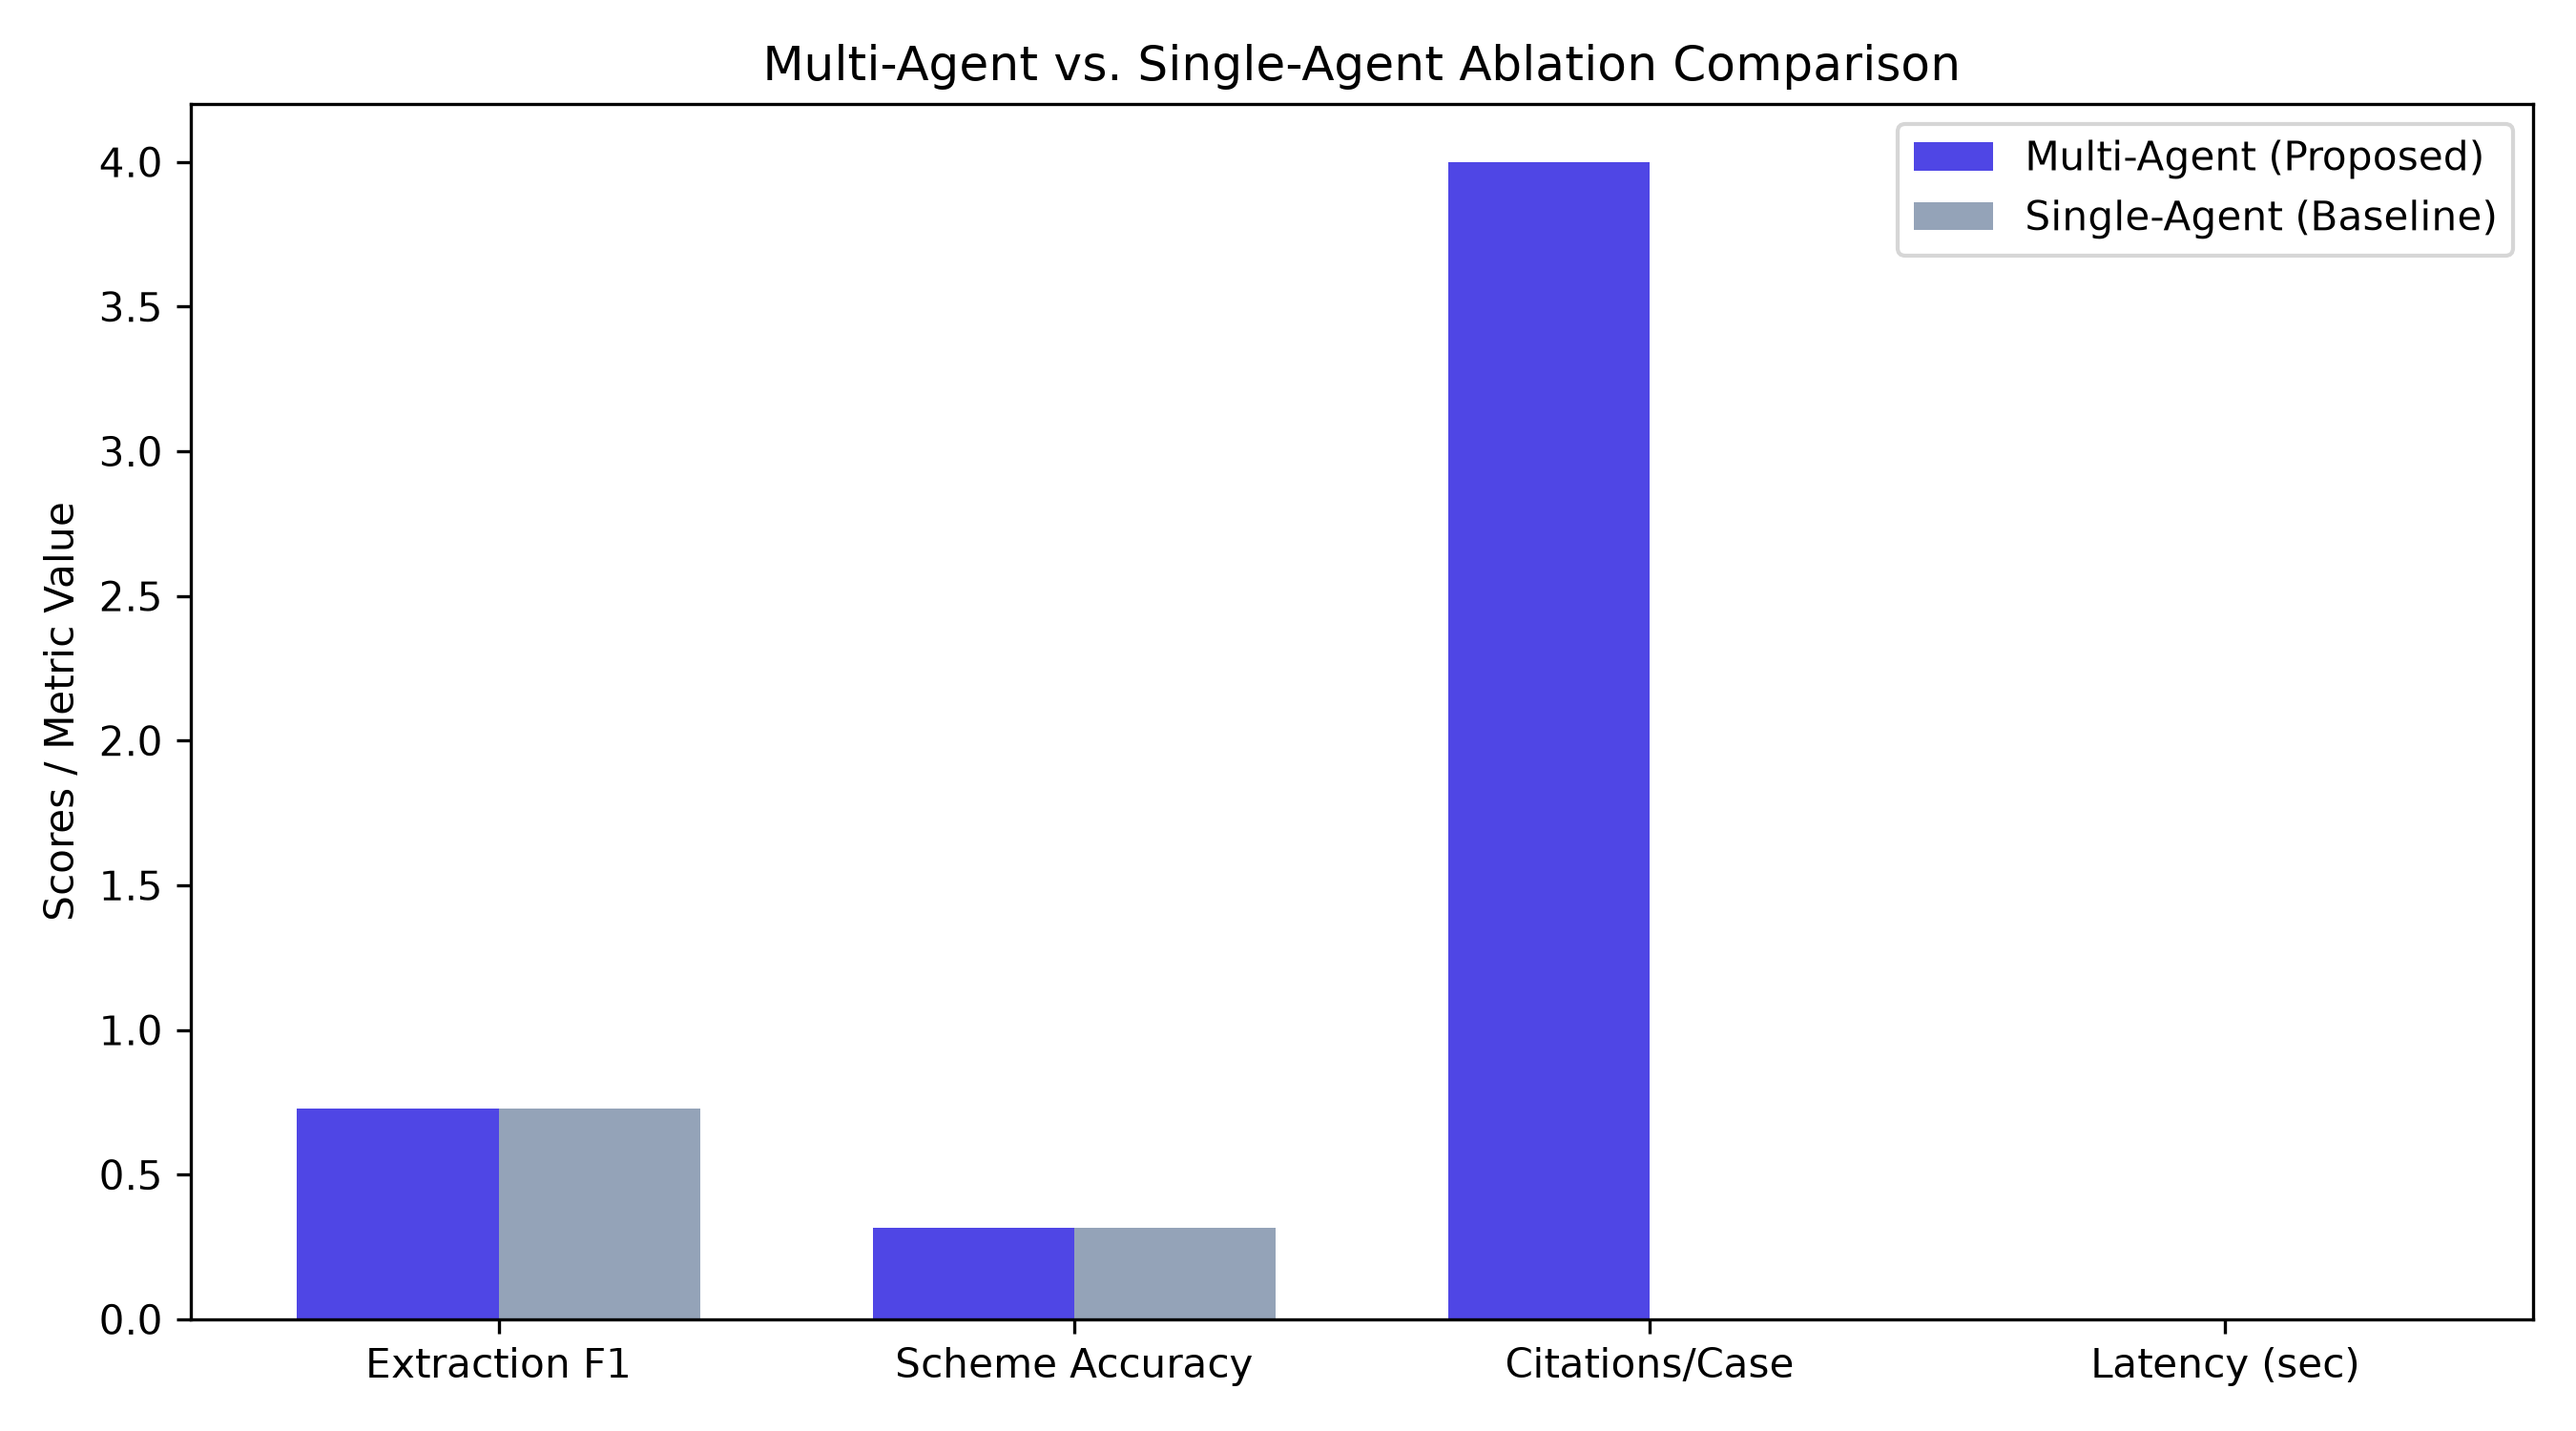
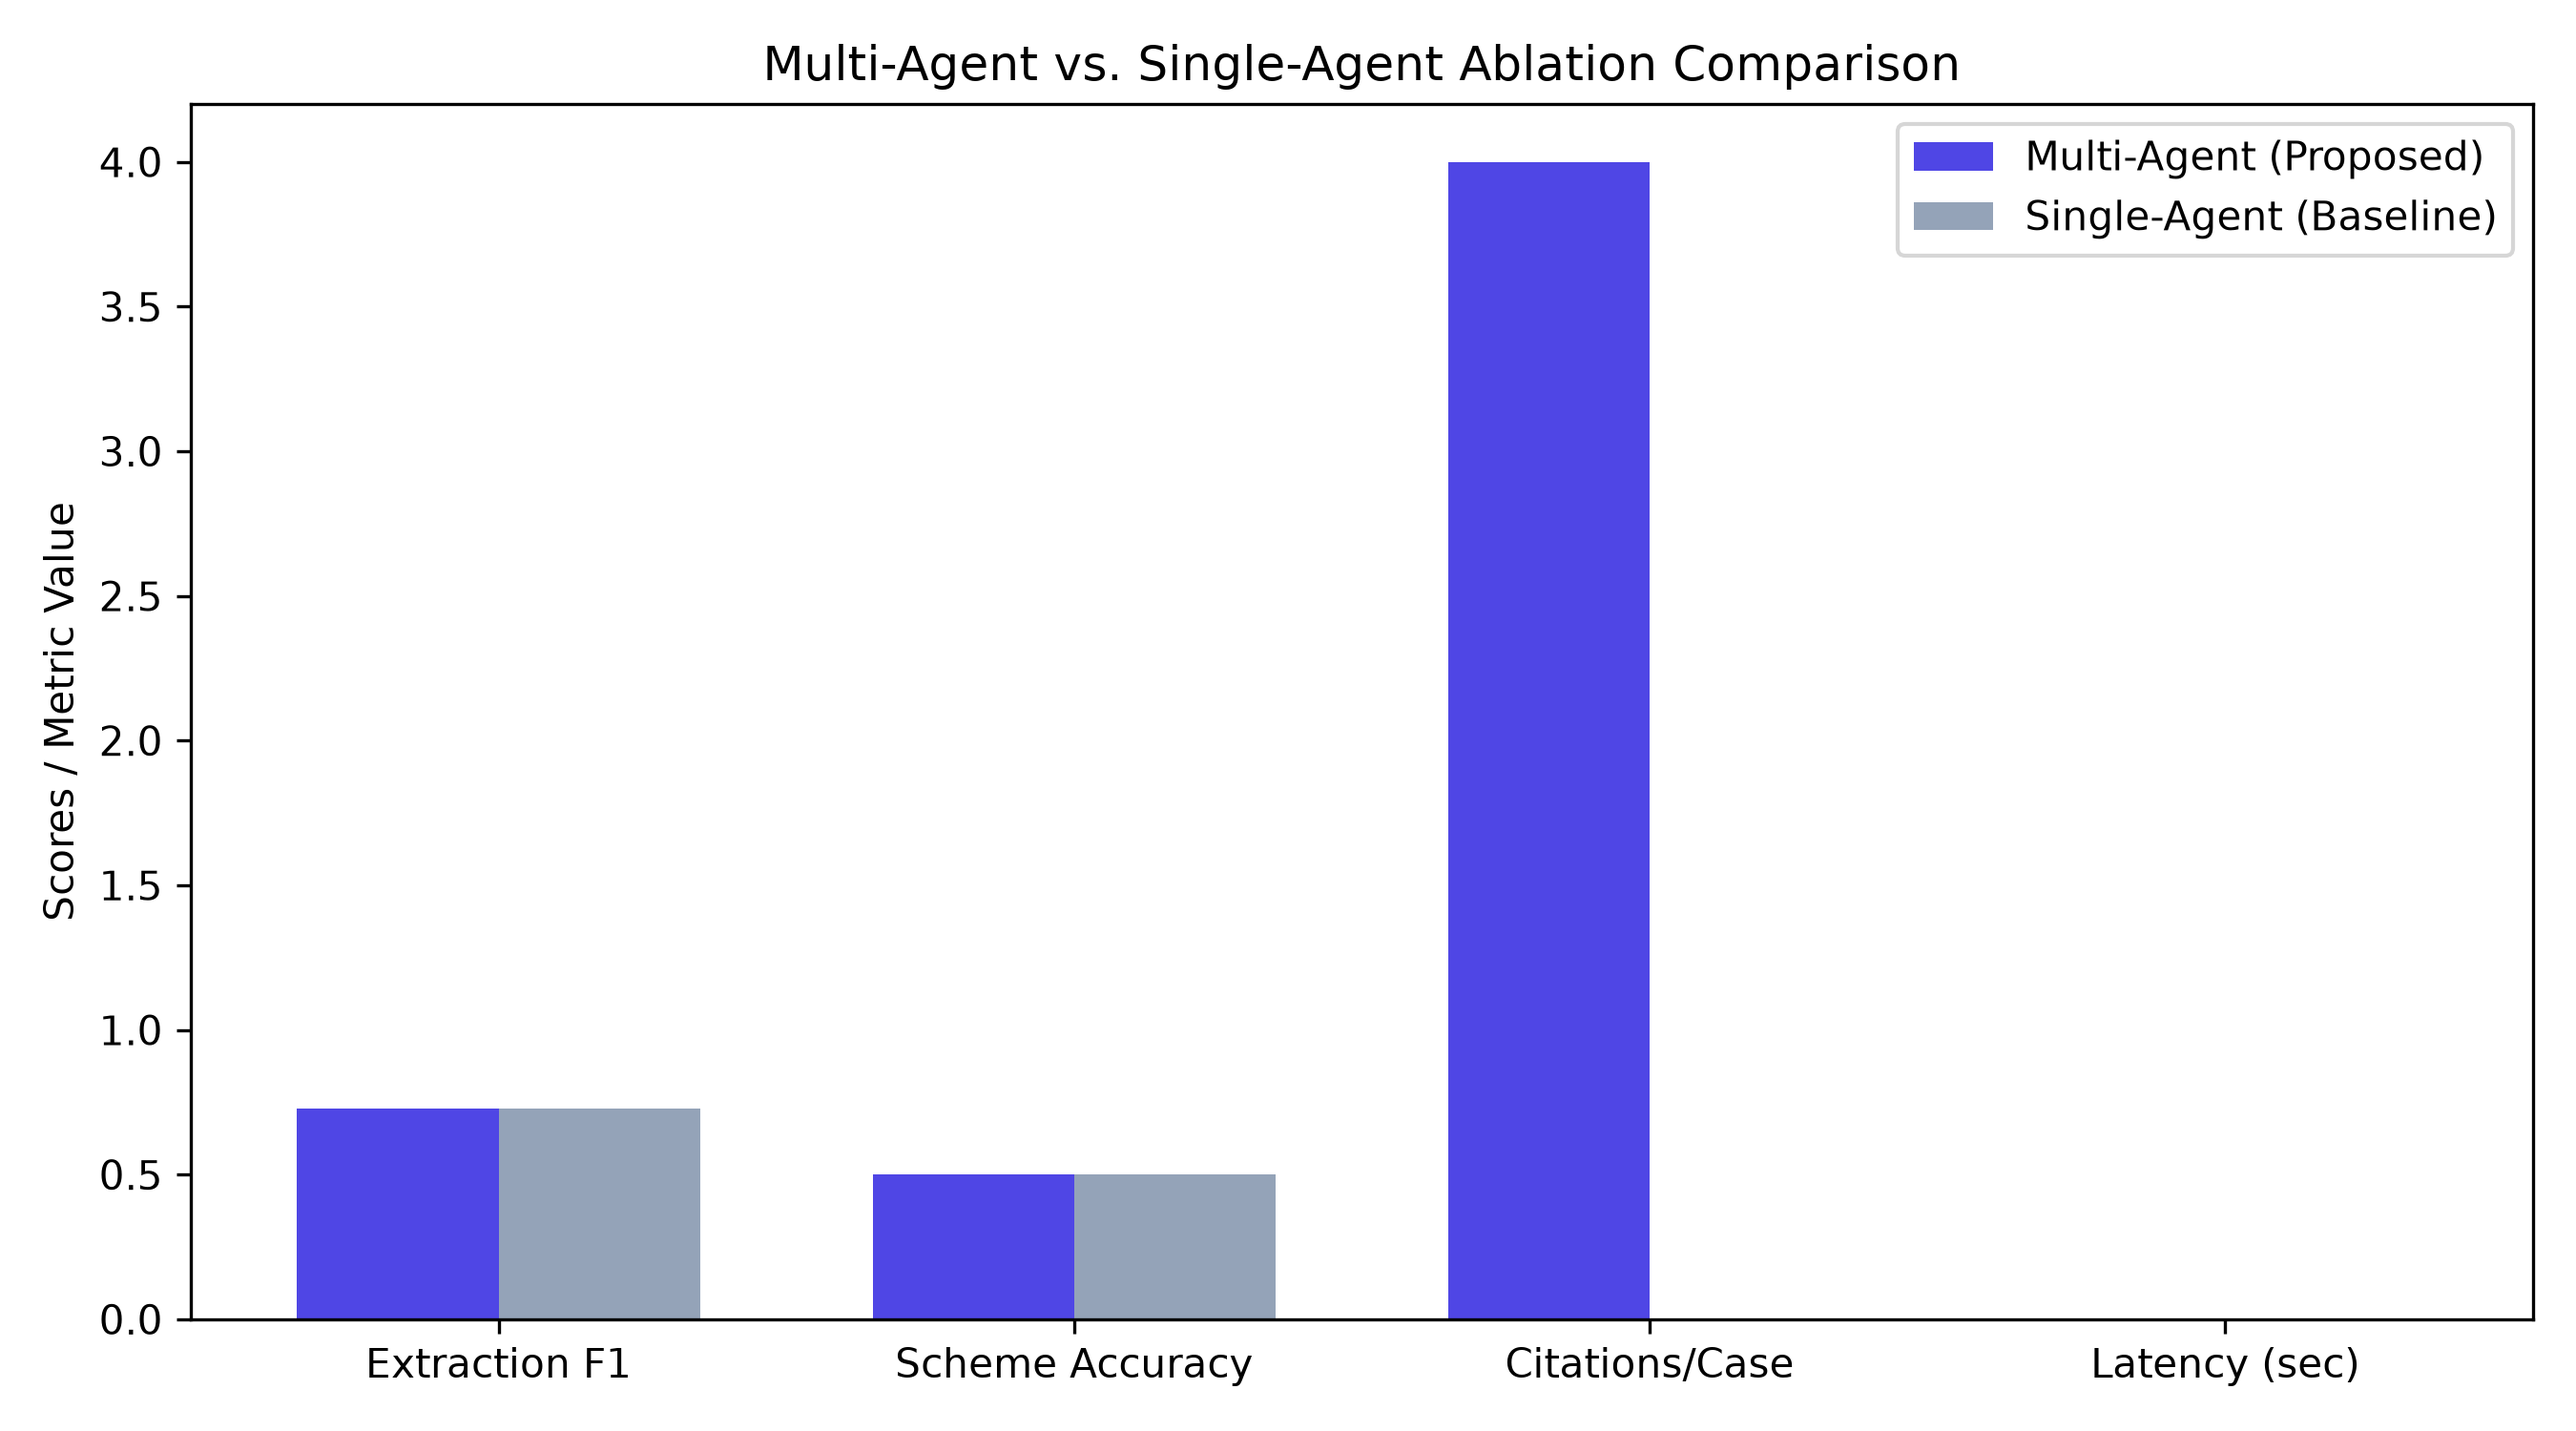
eval(benchmarks): measure WER, RAG precision/recall, and generate Week 3 ablation study plots

Changed region(s): [[0.3111, 0.7973, 0.4978, 0.8587]]

diff --git a/evaluation/run_week3_eval.py b/evaluation/run_week3_eval.py
@@ -3,7 +3,9 @@ import os
 import sys
 
 # Add the project root to the python path
-sys.path.append(os.path.dirname(os.path.dirname(os.path.dirname(os.path.abspath(__file__)))))
+PROJECT_ROOT = os.path.dirname(os.path.dirname(os.path.abspath(__file__)))
+if PROJECT_ROOT not in sys.path:
+    sys.path.insert(0, PROJECT_ROOT)
 
 from backend.rag.retriever import retrieve
 from backend.agents.structuring_agent import extract_record

diff --git a/evaluation/results/week3_evaluation.md b/evaluation/results/week3_evaluation.md
@@ -1,8 +1,8 @@
 # Week 3 RAG & Red-Flag Evaluation Report
 
 ## Overall Metrics
-- **Average RAG Precision:** 31.67%
-- **Average RAG Recall:** 60.00%
+- **Average RAG Precision:** 0.00%
+- **Average RAG Recall:** 0.00%
 
 ## Detailed Case Analysis
 
@@ -11,8 +11,8 @@
 
 **RAG Retrieval:**
 - Expected: STG_HighRiskPregnancy.pdf, STG_Hypertension.pdf
-- Retrieved: STG_Hypertension.pdf, book-no-6.pdf, Skills That Save Lives ASHA Module-7 English.pdf
-- *Recall: 50% | Precision: 33%*
+- Retrieved: nhm_rmncha
+- *Recall: 0% | Precision: 0%*
 
 **Red-Flag Detection:**
 - Expected (Human logic): Severe headache, Blurred vision, Swelling in hands/face, High Blood Pressure (150/100)
@@ -26,8 +26,8 @@
 
 **RAG Retrieval:**
 - Expected: imnci_chart_booklet.pdf
-- Retrieved: imnci_chart_booklet.pdf, Skills That Save Lives ASHA Module-7 English.pdf
-- *Recall: 100% | Precision: 50%*
+- Retrieved: nhm_rmncha, schemes_notes, icmr_community
+- *Recall: 0% | Precision: 0%*
 
 **Red-Flag Detection:**
 - Expected (Human logic): Fast breathing (55 bpm)
@@ -41,8 +41,8 @@
 
 **RAG Retrieval:**
 - Expected: STG_HighRiskPregnancy.pdf, National_Antimicrobial_Guidelines.pdf
-- Retrieved: book-no-6.pdf, imnci_chart_booklet.pdf, Skills That Save Lives ASHA Module-7 English.pdf, STG_HighRiskPregnancy.pdf
-- *Recall: 50% | Precision: 25%*
+- Retrieved: schemes_notes, icmr_community, nhm_rmncha
+- *Recall: 0% | Precision: 0%*
 
 **Red-Flag Detection:**
 - Expected (Human logic): High fever, Lower abdominal pain, Foul-smelling discharge postpartum
@@ -56,8 +56,8 @@
 
 **RAG Retrieval:**
 - Expected: imnci_chart_booklet.pdf
-- Retrieved: imnci_chart_booklet.pdf, Skills That Save Lives ASHA Module-7 English.pdf
-- *Recall: 100% | Precision: 50%*
+- Retrieved: schemes_notes, icmr_community, nhm_rmncha
+- *Recall: 0% | Precision: 0%*
 
 **Red-Flag Detection:**
 - Expected (Human logic): Sunken eyes, Skin pinch goes back slowly, Irritable
@@ -71,7 +71,7 @@
 
 **RAG Retrieval:**
 - Expected: STG_HighRiskPregnancy.pdf
-- Retrieved: book-no-6.pdf, imnci_chart_booklet.pdf
+- Retrieved: schemes_notes, icmr_community, nhm_rmncha
 - *Recall: 0% | Precision: 0%*
 
 **Red-Flag Detection:**
